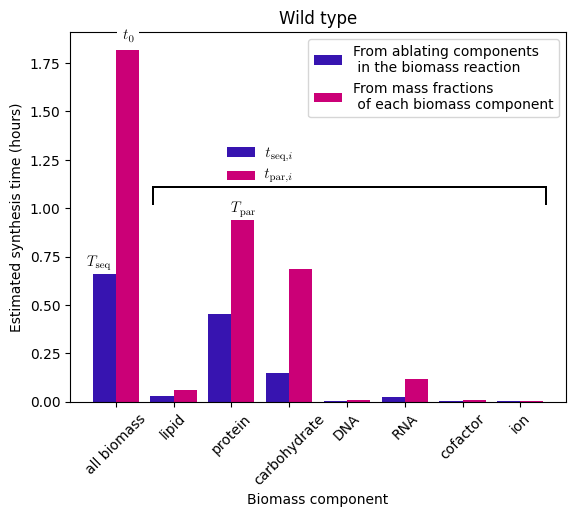
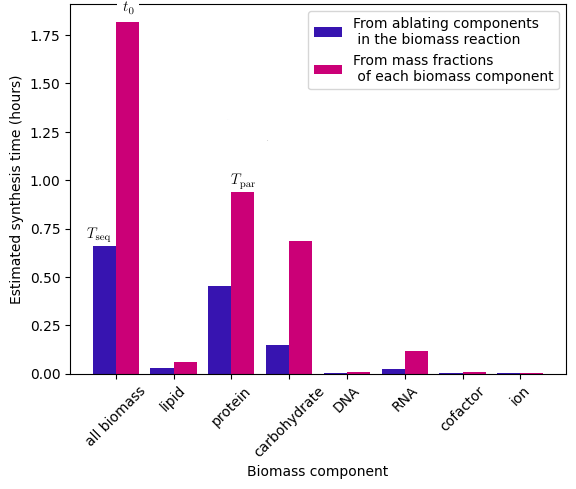
restruct(model): mostly fig fixes in timescales section

diff --git a/chapter_model/chapter_model.tex b/chapter_model/chapter_model.tex
@@ -145,11 +145,7 @@ Here, I detail how I apply these formalisms for this chapter.
 % TODO: Use proper refs rather than hard-coding numbers.
 In particular, I detail GECKO (item 4) and computing molecular weights of pseudometabolites (based on items 1 and 2).
 
-% FIXME: Delete this subsection?
-% It's mostly a duplicate of the appendix of the GECKO paper,
-% and I wrote it just to make sure I understand it.
-% I haven't used it in discussion so far.
-% FIXME: CHECK FOR PLAGIARISM!!!
+
 \subsection{GECKO}
 \label{subsec:model-yeast8-gecko}
 
@@ -157,7 +153,7 @@ In particular, I detail GECKO (item 4) and computing molecular weights of pseudo
   \centering
   \includegraphics[width=0.9\linewidth]{sanchezImprovingPhenotypePredictions2017_1b_adapted}
   \caption{
-    GECKO extends the stoichiometric matrix of a genome-scale model.
+    Modifications to the stoichiometric matrix of a genome-scale model that GECKO imposes.
     The original stoichiometric matrix $\mathbf{S}$ includes metabolites $M_{1} \ldots M_{m}$ and reactions $v_{1} \ldots v_{n}$.
     GECKO extends this matrix to include enzymes $E_{1} \ldots E_{p}$ and enzyme usage reactions $e_{1} \ldots e_{p}$.
     The new stoichiometric matrix can be seen as four submatrices concatenated together: the upper right submatrix is $\mathbf{0}$, the lower left submatrix encodes kinetic information, and the lower right submatrix is $\mathbf{I}$.
@@ -363,7 +359,7 @@ This process was repeated for the other pseudometabolites.
 \end{figure}
 
 
-\subsection{Effect on allocation of proteome}
+\subsection{Effect of ablation on allocation of proteome to enzymes}
 \label{sec:model-yeast8-pseudometabolites-allocation}
 
 To evaluate whether ablation leads to changes of model behaviour that reflect cellular biochemistry, I quantified how proteome allocation to enzymes changes across rounds of ablation.
@@ -425,7 +421,7 @@ Conversely, if there is a case of an enzyme expression switching off, evidenced 
     %The cell changes how it allocates its proteome to enzymes when different components of its biomass are prioritised.
     Each column shows the component that remains in each round of pseudometabolite ablation (labels on top).
     Each row represents an enzyme, and rows are grouped by subsystem (labels on left).
-    Colours represent $\log_{2}(\mathrm{FC})$ (Eq.\ \ref{eq:model-foldchange}) showing how enzyme usage fluxes change in rounds of ablation: green shows an increase, while pink shows a decrease.
+    Colours represent $\log_{2}(\mathrm{FC})$ (defined in Eq.\ \ref{eq:model-foldchange}) showing how enzyme usage fluxes change in rounds of ablation: green shows an increase, while pink shows a decrease.
     Rows in which $|\log_{2}(\mathrm{FC})| < 11$ for all biomass components are excluded to restrict the number of reactions ($n = \num{3897}$) for visualisation.
   }
   \label{fig:model-ablate-enz-use}
@@ -460,16 +456,14 @@ These results validate ablation of biomass components as a method to simulate se
 \section{Estimating timescale of biosynthesis}
 \label{sec:model-timescale}
 
-% FIXME: DO feedback, after clarification
+% FIXME: Is this figure actually needed??  Or does it just confuse people??
 \begin{figure}
   \centering
-  \includegraphics[width=.9\linewidth]{ablation_example_adapted.png}
+  \includegraphics[width=.7\linewidth]{ablation_example_adapted.png}
   \caption{
-    Comparing time scales derived from ablating components of the biomass reaction (blue) and from assuming that synthesis time is proportional to the mass fraction of the biomass component (red).
-    % For each biomass component, the time $\Tiabl$ was computed according to equation~\ref{eq:model-ablated-time} (blue bars apart from leftmost column), and the time $\Tiprop$ was computed according to equation~\ref{eq:model-proportional-time} (red bars apart from leftmost column).
-    % $\Tpar$ is defined as the greatest $\Tiprop$ (equation~\ref{eq:model-b}).
-    % Blue under `all biomass' is $\Tseq$ (equation~\ref{eq:model-a}), the sum of times derived from ablation (other blue bars).
-    % Red under `all biomass' is the doubling time $t_{0}$ (equation~\ref{eq:model-doubling-time}).
+    Estimated synthesis times of biomass components, from ablation (blue bars) and from scaling doubling time by mass fraction (red bars).
+    Bars under `all biomass' indicate (blue) $\Tseq$ (defined in Eq.\ \ref{eq:model-a}) and (red) the doubling time $t_{0}$ (defined in Eq.\ \ref{eq:model-doubling-time}).
+    Other bars indicate (blue) $\Tiabl$ (defined in Eq.\ \ref{eq:model-ablated-time}) and (red) $\Tiprop$ (defined in Eq.\ \ref{eq:model-proportional-time}); $\Tpar$ is the greatest $\Tiprop$.
   }
   \label{fig:model-ablate-times}
 \end{figure}
@@ -497,32 +491,11 @@ where:
 \begin{itemize}
   \item $i$ represents each of the biomass components (lipids, proteins, carbohydrates, DNA, RNA, cofactors, and ions),
   \item $\Tiabl$ is the predicted time for synthesis of each biomass component,
-  \item $f_{i}$ is the mass fraction of each biomass component, and
+  \item $f_{i}$ is the mass fraction of each biomass component (table~\ref{tab:model-biomfrac}), and
   \item $\griabl$ is the optimal flux of the ablated biomass reaction.
 \end{itemize}
 
 Eq.\ \ref{eq:model-ablated-time} differs from Eq.\ \ref{eq:model-doubling-time} in that $f_{i}$ acts as a scaling factor that takes into account that if a biomass component accounts for a smaller fraction of dry cell mass, biomass synthesis should take less time.
-This value $f_{i}$ for each biomass component (table~\ref{tab:model-biomfrac}) is computed by dividing the molecular weight of the corresponding pseudometabolite by the molecular weight of biomass (table~\ref{tab:ecyeast8-mol-weights}).
-
-\begin{table}[ht]
-  \centering
-  \begin{tabular}{lS}
-    Metabolite & {$f_{i}$} \\
-    \hline
-    Protein & 0.52453 \\
-    Carbohydrate & 0.36438 \\
-    RNA & 0.06660 \\
-    Lipid & 0.03283 \\
-    Cofactors & 0.00502 \\
-    DNA & 0.00406 \\
-    Ions & 0.00258 \\
-  \end{tabular}
-  \caption{
-    $f_{i}$ values for each biomass component.
-  }
-  \label{tab:model-biomfrac}
-\end{table}
-
 
 For comparison, I computed estimates of the time for each biomass component, assuming that it is proportional to the mass fraction:
 
@@ -537,7 +510,7 @@ To determine whether sequential biosynthesis of biomass components or parallel b
 This is defined:
 
 \begin{equation}
-  \ratioabl \coloneqq \frac{\Tseq}{\Tpar}
+  \ratioabl = \frac{\Tseq}{\Tpar}
   \label{eq:model-ratio-simplified}
 \end{equation}
 
@@ -545,7 +518,7 @@ where $\Tseq$ represents the predicted growth time assuming sequential biosynthe
 These quantities are defined:
 
 \begin{equation}
-  \Tseq \coloneqq \sum_{i} \Tiabl = \sum f_{i} \cdot \frac{\ln 2}{\griabl}
+  \Tseq = \sum_{i} \Tiabl = \sum f_{i} \cdot \frac{\ln 2}{\griabl}
   \label{eq:model-a}
 \end{equation}
 
@@ -558,7 +531,7 @@ These quantities are defined:
 % \end{equation}
 
 \begin{equation}
-  \Tpar \coloneqq \argmax_{i} \Tiprop
+  \Tpar = \argmax_{i} \Tiprop
   \label{eq:model-b}
 \end{equation}
 
@@ -587,7 +560,6 @@ Conversely, $\ratioabl > 1$ indicates that parallel synthesis of biomass compone
    \centering
    \includegraphics[width=\textwidth]{ablation_by4741}
    \caption{
-     BY4741
    }
    \label{fig:model-ablation-by4741}
   \end{subfigure}
@@ -595,7 +567,6 @@ Conversely, $\ratioabl > 1$ indicates that parallel synthesis of biomass compone
    \centering
    \includegraphics[width=\textwidth]{ablation_zwf1}
    \caption{
-     zwf$\Delta$ in the BY4741 background.
    }
    \label{fig:model-ablation-zwf1}
   \end{subfigure}
@@ -603,19 +574,17 @@ Conversely, $\ratioabl > 1$ indicates that parallel synthesis of biomass compone
    \centering
    \includegraphics[width=\textwidth]{ablation_tsa2}
    \caption{
-     tsa2$\Delta$ in the BY4742 background.  The ecYeast8 model does not include reactions that correspond to \textit{TSA1}.
    }
    \label{fig:model-ablation-tsa2}
   \end{subfigure}
   \caption{
-    Comparing time scales from sequential and parallel biosynthesis in auxotrophs and deletion strains, as in figure~\ref{fig:model-ablate-times}.
+    Estimated synthesis times of biomass components, from ablation (blue bars) and from scaling doubling time by mass fraction (red bars), for \textbf{(\ref{fig:model-ablation-by4741})} BY4741, \textbf{(\ref{fig:model-ablation-zwf1})} zwf$\Delta$ in the BY4741 background, and \textbf{(\ref{fig:model-ablation-tsa2})} tsa2$\Delta$ in the BY4742 background.
+    %The ecYeast8 model does not include reactions that correspond to \textit{TSA1}.
     % For BY4741-background strains, supplements are simulated by allowing uptake of histidine, leucine, tryptophan, methionine and uracil.
     % The same applied to BY4742-background strains, but lysine uptake replaces methionine uptake.
   }
   \label{fig:model-ablation-strains}
 \end{figure}
-% Adding supplements, e.g. amino acids, dNTPs/NTPs, pyruvate, glucose limitation?
-% Or do C/N grid heatmaps demonstrate this.
 
 % In figure~\ref{fig:model-ablate-times}, the $\ratioabl = 0.70$.
 To confirm that the advantage of the sequential biosynthesis strategy is retained in other strains, I extended the computation $\ratioabl$ and related quantities to models in which genes were deleted.

diff --git a/appendix/appendx1.tex b/appendix/appendx1.tex
@@ -170,6 +170,27 @@ I took the mean of the four weights to give \SI{729.53}{\gram~\mole^{-1}}.
 Subsequently, the molecular weight of \texttt{lipid backbone} was computed from this mean value and the molecular weights of other species involved in the production of \texttt{lipid backbone}, giving \SI{21.31}{\gram~\mole^{-1}}.
 With the molecular weights of \texttt{lipid backbone} and \texttt{lipid chain} defined, the molecular weight of \texttt{lipid} is thus the sum of the two.
 
+Subsequently, the mass fraction of each biomass component is computed by dividing the molecular weight of the corresponding pseudometabolite by the molecular weight of biomass:
+
+\begin{table}[ht]
+  \centering
+  \begin{tabular}{lS}
+    Metabolite & {$f_{i}$} \\
+    \hline
+    Protein & 0.52453 \\
+    Carbohydrate & 0.36438 \\
+    RNA & 0.06660 \\
+    Lipid & 0.03283 \\
+    Cofactors & 0.00502 \\
+    DNA & 0.00406 \\
+    Ions & 0.00258 \\
+  \end{tabular}
+  \caption{
+    $f_{i}$ values for each biomass component.
+  }
+  \label{tab:model-biomfrac}
+\end{table}
+
 
 \section{Mathematical explanation of the effect of restricting the enzyme pool}
 \label{append:model-pool}
